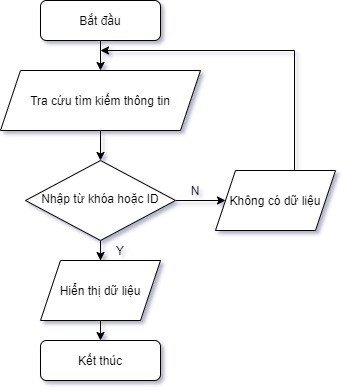
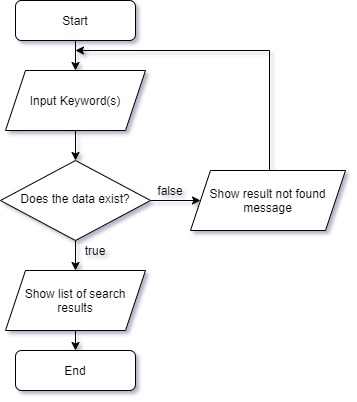
update resource file

diff --git a/src/main/java/vn/aptech/quanlybanhang/Main.java b/src/main/java/vn/aptech/quanlybanhang/Main.java
@@ -6,6 +6,7 @@
 package vn.aptech.quanlybanhang;
 
 import java.util.Locale;
+import java.util.ResourceBundle;
 import vn.aptech.quanlybanhang.menu.Breadcrumb;
 import vn.aptech.quanlybanhang.pages.AuthPage;
 import vn.aptech.quanlybanhang.utilities.DBConnection;
@@ -21,7 +22,7 @@ public class Main {
      */
     public static void main(String[] args) {
         try {
-            init();
+            init(args);
             start();
         } finally {
 //            DBConnection.maybeCloseConnection();
@@ -35,7 +36,18 @@ public class Main {
         authPage.start();
     }
     
-    public static void init() {
-        Locale.setDefault(new Locale("vi", "VN"));
+    public static void init(String[] args) {
+        String language = null;
+        String country = null;
+        if (args.length == 2) {
+//            language = args[0];
+//            country = args[1];
+            language = "en";
+            country = "US";
+        } else {
+            language = "vi";
+            country = "VN";
+        }
+        Locale.setDefault(new Locale(language, country));
     }
 }
